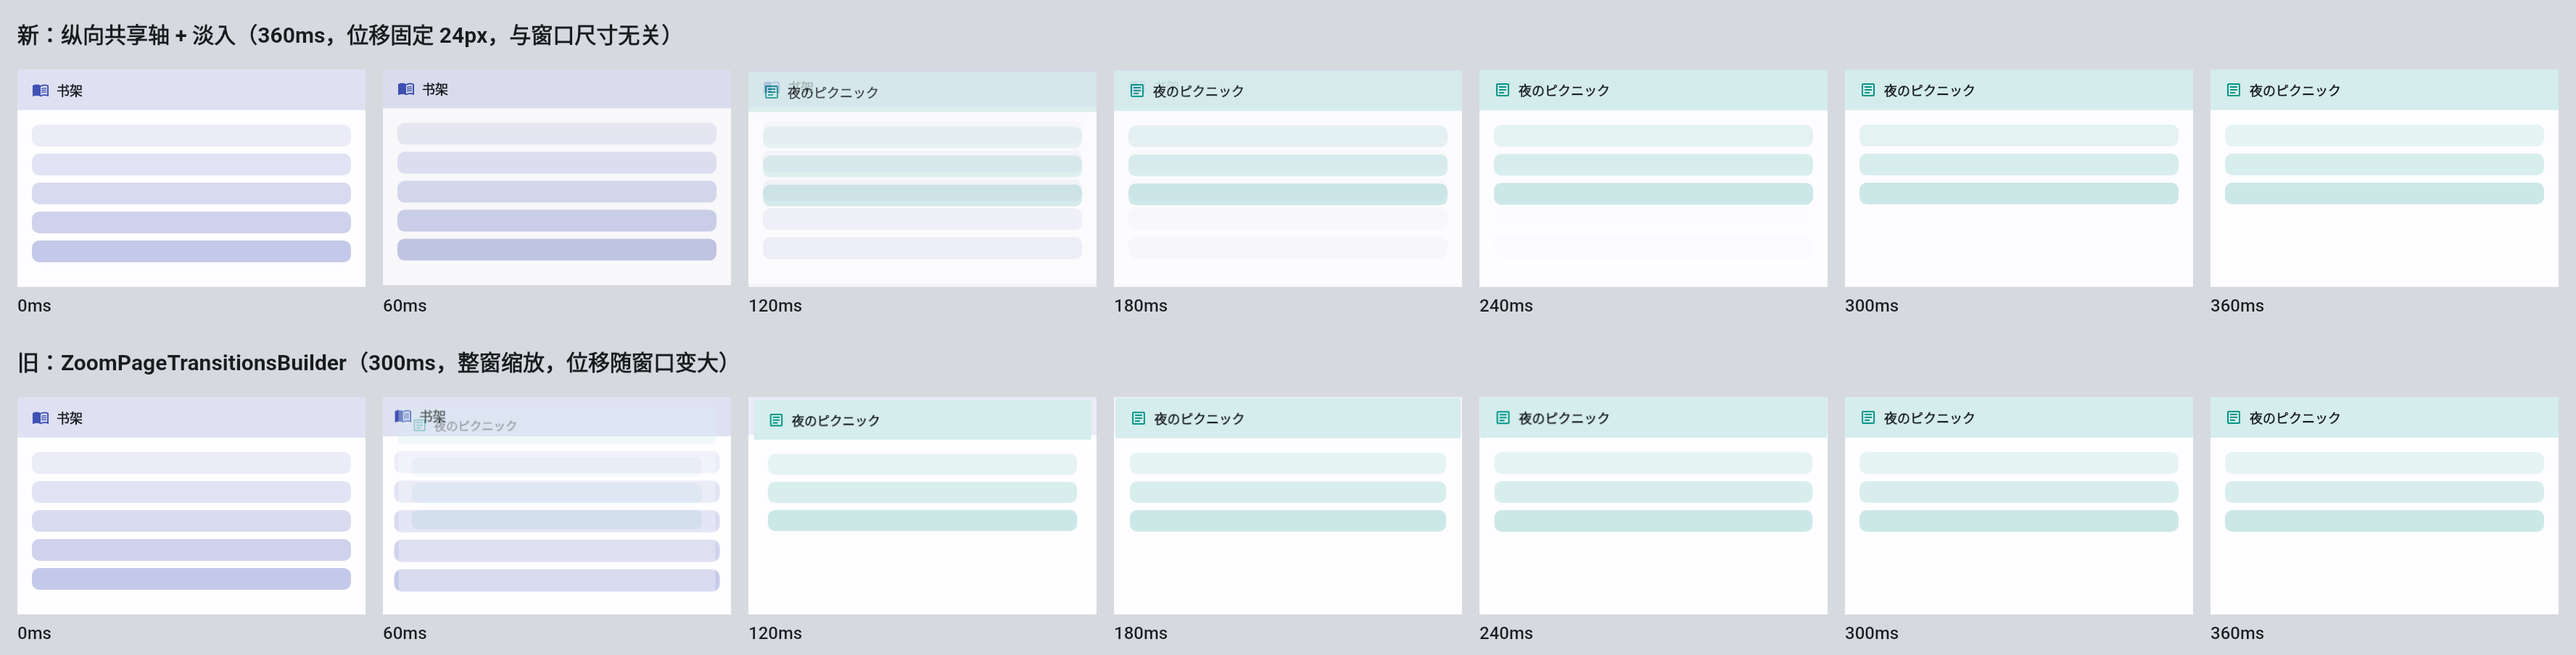
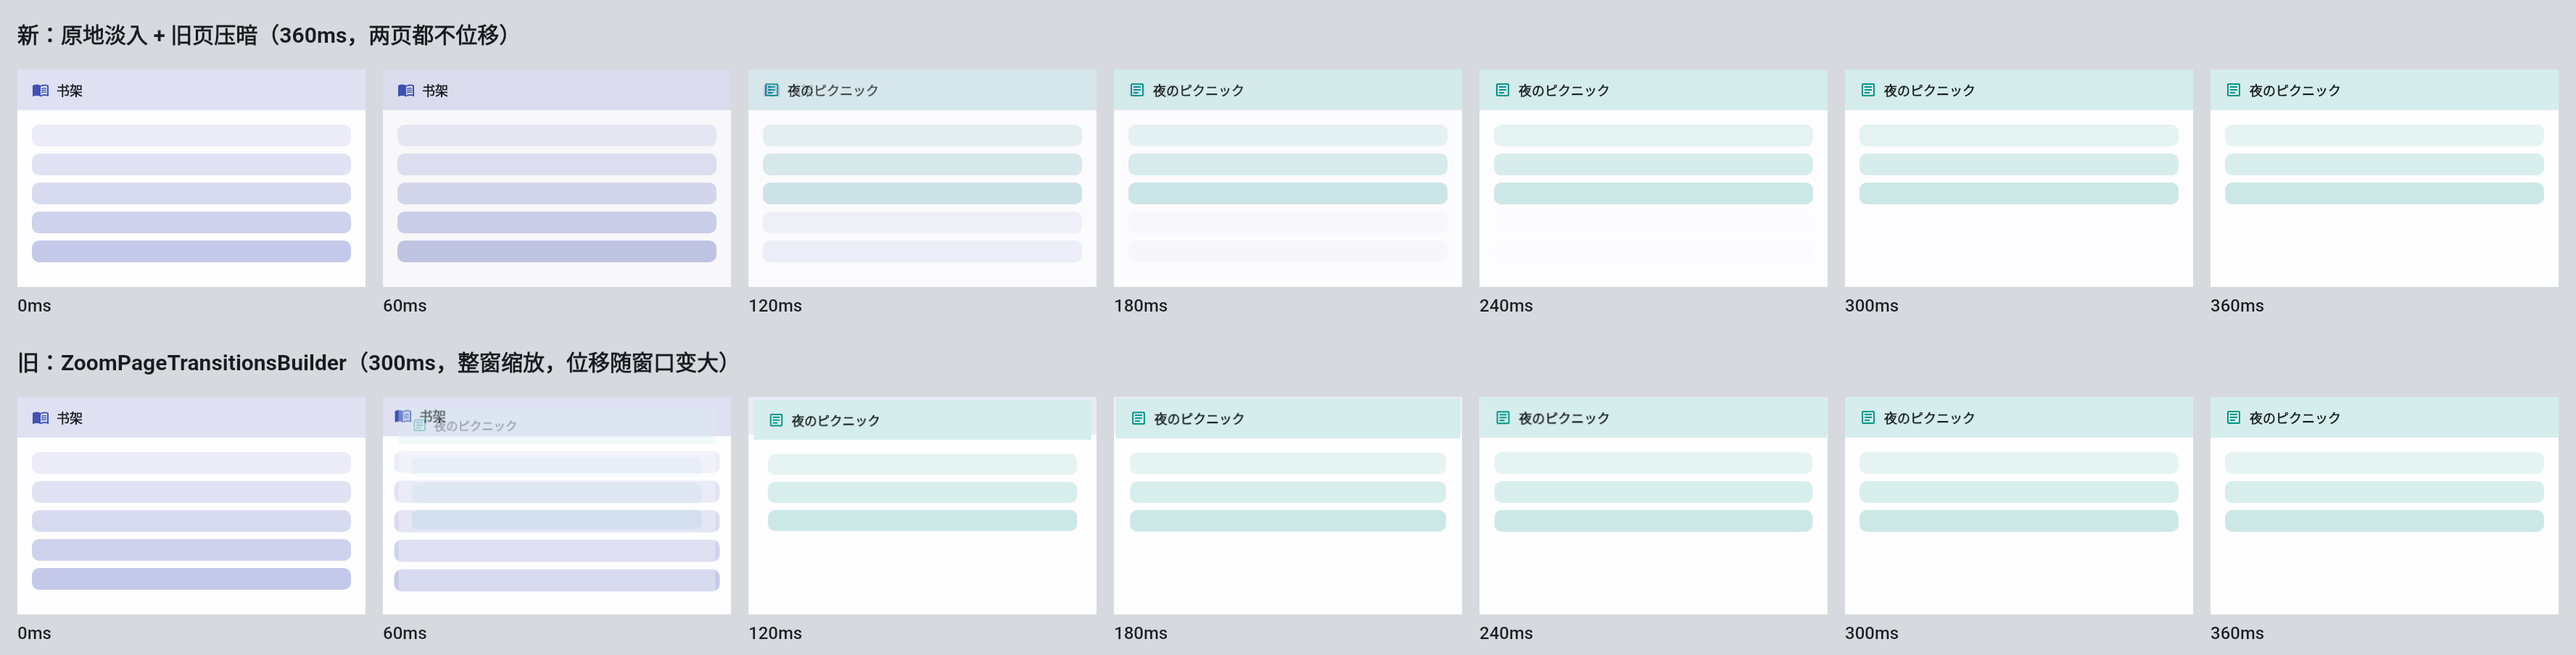
fix(ui): 桌面页面转场去掉位移，只保留原地淡入
用户实测「进入页面时整个页面会往上一点」：进入页从下方 24px 上移、被覆盖页
同时上移 6px。两页都改为不位移，进入页原地淡入、被覆盖页原地压暗；测试改为
逐帧断言两页位置恒为原点，效果图同步重渲染。

Claude-Session: https://claude.ai/code/session_01413P6baWY3bXZnKuYU1Z3V

diff --git a/fushi/lib/src/utils/adaptive/fushi_page_transitions.dart b/fushi/lib/src/utils/adaptive/fushi_page_transitions.dart
@@ -2,21 +2,24 @@ import 'package:flutter/material.dart';
 
 import 'package:fushi/src/utils/components/fushi_motion_tokens.dart';
 
-/// 桌面（Windows / Linux / Fuchsia）页面转场：**纵向共享轴 + 淡入**。
+/// 桌面（Windows / Linux / Fuchsia）页面转场：**原地淡入，不位移**。
 ///
 /// 取代此前的 [ZoomPageTransitionsBuilder]。Zoom 转场为「手机上从卡片放大成整页」
 /// 设计：新页从 85% 放大、旧页同时放大到 105% 并淡出，在 1080p+ 的大窗口里是
 /// 整窗缩放，位移量随窗口尺寸线性增长——4K 全屏下一次 push 等于把几百像素的
 /// 画面整体推拉一遍，视觉上很「重」，而且两页同时缩放需要两层离屏合成。
 ///
-/// 这里改成只与**固定像素距离**相关的轻量动作，与窗口大小无关：
-/// - 进入页：从下方 [FushiMotion.enterOffset] × 1.5 处上移到位，透明度在动画前
-///   20% 保持 0、随后淡入（先让旧页「让路」再出现，读起来是一次干净的切换而不是
-///   两页叠影）。
-/// - 被覆盖页：轻微上移并压暗到 [_kScrimOpacity]，提示层级「新页在上面」。
+/// 这里两页都**不做任何位移 / 缩放**，页面内容始终停在最终位置：
+/// - 进入页：透明度在动画前 20% 保持 0、随后淡入（先让旧页「让路」再出现，读起来
+///   是一次干净的切换而不是两页叠影）。
+/// - 被覆盖页：原地压暗到 [_kScrimOpacity]，提示层级「新页在上面」。
 /// - 返回（pop）走同一路径的反向，时长取 [FushiMotion.longReverse]，退出更快。
 ///
-/// 系统「减弱动态效果」/ 墨水屏（[fushiMotionEnabled]）下退化成纯淡入、不位移。
+/// 早先版本让进入页从下方 24px 上移到位、被覆盖页同时上移 6px，用户实测反馈
+/// 「进入页面时整个页面会往上一点」——整页位移在桌面大窗里读成页面在跳，所以
+/// 去掉位移只留淡入。
+///
+/// 系统「减弱动态效果」/ 墨水屏（[fushiMotionEnabled]）下淡入改为线性、不压暗。
 /// 墨水屏的主题本就整套换成 `EinkNoPageTransitionsBuilder`，这里只是兜底。
 class FushiSharedAxisPageTransitionsBuilder extends PageTransitionsBuilder {
   const FushiSharedAxisPageTransitionsBuilder();
@@ -63,9 +66,6 @@ class FushiSharedAxisTransition extends StatelessWidget {
   static final Animatable<double> _fadeIn = CurveTween(
     curve: const Interval(0.2, 1, curve: FushiMotion.enter),
   );
-  static final Animatable<double> _riseIn = CurveTween(
-    curve: FushiMotion.enter,
-  );
   static final Animatable<double> _coverOut = CurveTween(
     curve: FushiMotion.standard,
   );
@@ -73,27 +73,23 @@ class FushiSharedAxisTransition extends StatelessWidget {
   @override
   Widget build(BuildContext context) {
     final bool motion = fushiMotionEnabled(context);
-    const double distance = FushiMotion.enterOffset * 1.5;
     final Color scrim = Theme.of(context).colorScheme.scrim;
     return AnimatedBuilder(
       animation: Listenable.merge(<Listenable>[animation, secondaryAnimation]),
       child: child,
       builder: (BuildContext context, Widget? child) {
         final double enter = animation.value;
-        final double fade = _fadeIn.transform(enter);
-        final double rise = motion ? _riseIn.transform(enter) : 1;
-        final double cover = _coverOut.transform(secondaryAnimation.value);
+        final double cover = motion
+            ? _coverOut.transform(secondaryAnimation.value)
+            : 0;
         return Opacity(
-          opacity: motion ? fade : enter,
-          child: Transform.translate(
-            offset: Offset(0, (1 - rise) * distance - cover * distance * 0.25),
-            child: DecoratedBox(
-              position: DecorationPosition.foreground,
-              decoration: BoxDecoration(
-                color: scrim.withValues(alpha: cover * _kScrimOpacity),
-              ),
-              child: child,
+          opacity: motion ? _fadeIn.transform(enter) : enter,
+          child: DecoratedBox(
+            position: DecorationPosition.foreground,
+            decoration: BoxDecoration(
+              color: scrim.withValues(alpha: cover * _kScrimOpacity),
             ),
+            child: child,
           ),
         );
       },

diff --git a/fushi/test/widgets/fushi_motion_redesign_test.dart b/fushi/test/widgets/fushi_motion_redesign_test.dart
@@ -259,8 +259,11 @@ void main() {
       expect(builder.reverseTransitionDuration, FushiMotion.longReverse);
     });
 
-    testWidgets('push 过程中新页从下方淡入，结束后无残余位移', (WidgetTester tester) async {
+    testWidgets('push 过程中新页原地淡入，全程不位移（用户反馈页面会往上跳）', (
+      WidgetTester tester,
+    ) async {
       final GlobalKey<NavigatorState> nav = GlobalKey<NavigatorState>();
+      const Key homeKey = ValueKey<String>('home');
       const Key pageKey = ValueKey<String>('page');
       await tester.pumpWidget(
         MaterialApp(
@@ -273,7 +276,7 @@ void main() {
               },
             ),
           ),
-          home: const SizedBox(),
+          home: const SizedBox.expand(key: homeKey),
         ),
       );
       nav.currentState!.push(
@@ -282,11 +285,33 @@ void main() {
         ),
       );
       await tester.pump();
-      await tester.pump(const Duration(milliseconds: 120));
-      final double midY = tester.getTopLeft(find.byKey(pageKey)).dy;
-      expect(midY, greaterThan(0));
+      for (int i = 0; i < 6; i++) {
+        await tester.pump(const Duration(milliseconds: 60));
+        expect(tester.getTopLeft(find.byKey(pageKey)), Offset.zero);
+        expect(tester.getTopLeft(find.byKey(homeKey)), Offset.zero);
+      }
       await tester.pumpAndSettle();
-      expect(tester.getTopLeft(find.byKey(pageKey)).dy, 0);
+      expect(tester.getTopLeft(find.byKey(pageKey)), Offset.zero);
+    });
+
+    testWidgets('进入页中途半透明（淡入确实在播）', (WidgetTester tester) async {
+      const Key key = ValueKey<String>('child');
+      await tester.pumpWidget(
+        const MaterialApp(
+          home: FushiSharedAxisTransition(
+            animation: AlwaysStoppedAnimation<double>(0.5),
+            secondaryAnimation: kAlwaysDismissedAnimation,
+            child: SizedBox.expand(key: key),
+          ),
+        ),
+      );
+      final double opacity = tester
+          .widget<Opacity>(
+            find.ancestor(of: find.byKey(key), matching: find.byType(Opacity)),
+          )
+          .opacity;
+      expect(opacity, greaterThan(0));
+      expect(opacity, lessThan(1));
     });
   });
 

diff --git a/fushi/lib/src/models/theme_notifier.dart b/fushi/lib/src/models/theme_notifier.dart
@@ -1799,7 +1799,7 @@ ThemeData buildFushiThemeData({
                   FushiPredictiveBackPageTransitionsBuilder(),
               TargetPlatform.iOS: CupertinoPageTransitionsBuilder(),
               TargetPlatform.macOS: CupertinoPageTransitionsBuilder(),
-              // 桌面：纵向共享轴 + 淡入（2026-10 动效重做）。Zoom 的整窗缩放位移
+              // 桌面：原地淡入、不位移（2026-10 动效重做）。Zoom 的整窗缩放位移
               // 随窗口尺寸线性增长，大屏上很重，见该 builder 类注释。
               TargetPlatform.windows: FushiSharedAxisPageTransitionsBuilder(),
               TargetPlatform.linux: FushiSharedAxisPageTransitionsBuilder(),

diff --git a/fushi/test/design_preview/redesign_preview_test.dart b/fushi/test/design_preview/redesign_preview_test.dart
@@ -1324,7 +1324,7 @@ Future<void> _capturePageTransitionFilmstrip(
   final ColorScheme cs = _theme(Brightness.light).colorScheme;
   final List<ui.Image> strips = <ui.Image>[];
   final List<(String, String)> titles = <(String, String)>[
-    ('new', '新：纵向共享轴 + 淡入（360ms，位移固定 24px，与窗口尺寸无关）'),
+    ('new', '新：原地淡入 + 旧页压暗（360ms，两页都不位移）'),
     ('old', '旧：ZoomPageTransitionsBuilder（300ms，整窗缩放，位移随窗口变大）'),
   ];
   for (int r = 0; r < rows.length; r++) {

diff --git a/docs/specs/2026-10-02-ui-motion-redesign.md b/docs/specs/2026-10-02-ui-motion-redesign.md
@@ -31,8 +31,8 @@
 1. **桌面页面转场**：Windows / Linux / Fuchsia 由 `ZoomPageTransitionsBuilder` 换成
    `FushiSharedAxisPageTransitionsBuilder`（`lib/src/utils/adaptive/fushi_page_transitions.dart`）。
    Zoom 是为手机「卡片放大成整页」设计的，整窗缩放的位移随窗口尺寸线性增长，4K 全屏下一次 push
-   等于把几百像素整体推拉一遍，并且两页同时缩放要两层离屏合成。新转场只做固定 24 px 的纵向位移
-   + 淡入，被覆盖页轻微上移并压暗 6%。Android 预测性返回、iOS / macOS Cupertino、墨水屏零转场
+   等于把几百像素整体推拉一遍，并且两页同时缩放要两层离屏合成。新转场两页都不位移：进入页原地淡入，
+   被覆盖页原地压暗 6%（早先版本带 24px 上移，用户实测觉得「进入页面时整个页面往上跳」，已去掉）。Android 预测性返回、iOS / macOS Cupertino、墨水屏零转场
    矩阵不变（守卫 `test/models/theme_page_transitions_guard_test.dart` 新增桌面断言）。
 2. **导航药丸展开**：`_FushiNavTile` 选中指示器从 32 横向展开到 64 并渐入填充色，图标线框 ↔ 实心
    轻缩放交叉淡化，标签字重过渡。settle 后的几何与配色与改造前逐值相同（eink 守卫不变）。
